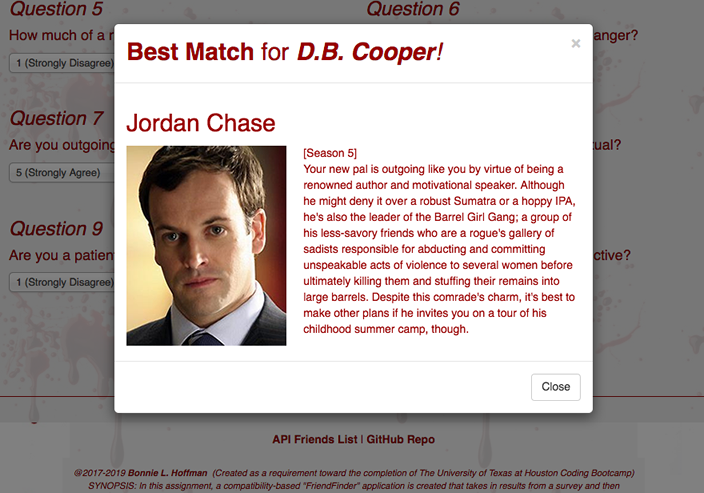
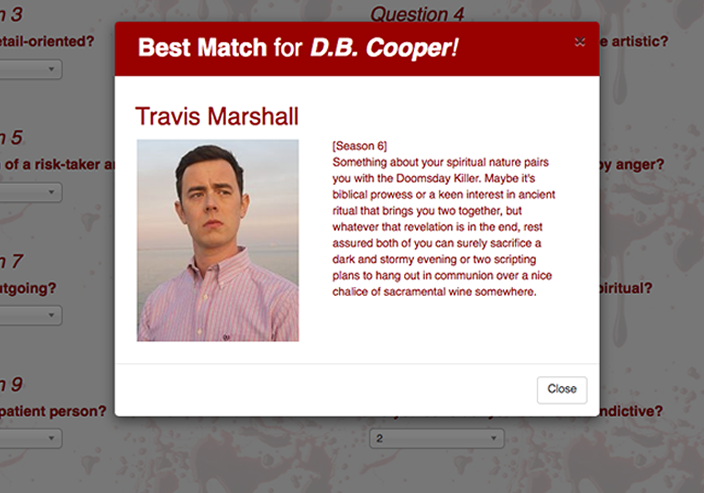
uploading new modal screenshot

diff --git a/app/routing/apiRoutes.js b/app/routing/apiRoutes.js
@@ -69,9 +69,9 @@ module.exports = function(app) {
         var numToUse = (userScores[j]-friendScores[j])^2
 
           // trying this:
-        if i=0 {
+        /* if i=0 {
           numToUse = numToUse*0.5;
-        }
+        } */
 
         // totalDifference += Math.abs(userScores[j]-friendScores[j]); // setting absolute value
         // totalDifference += Math.abs((userScores[j]-friendScores[j])^2);
